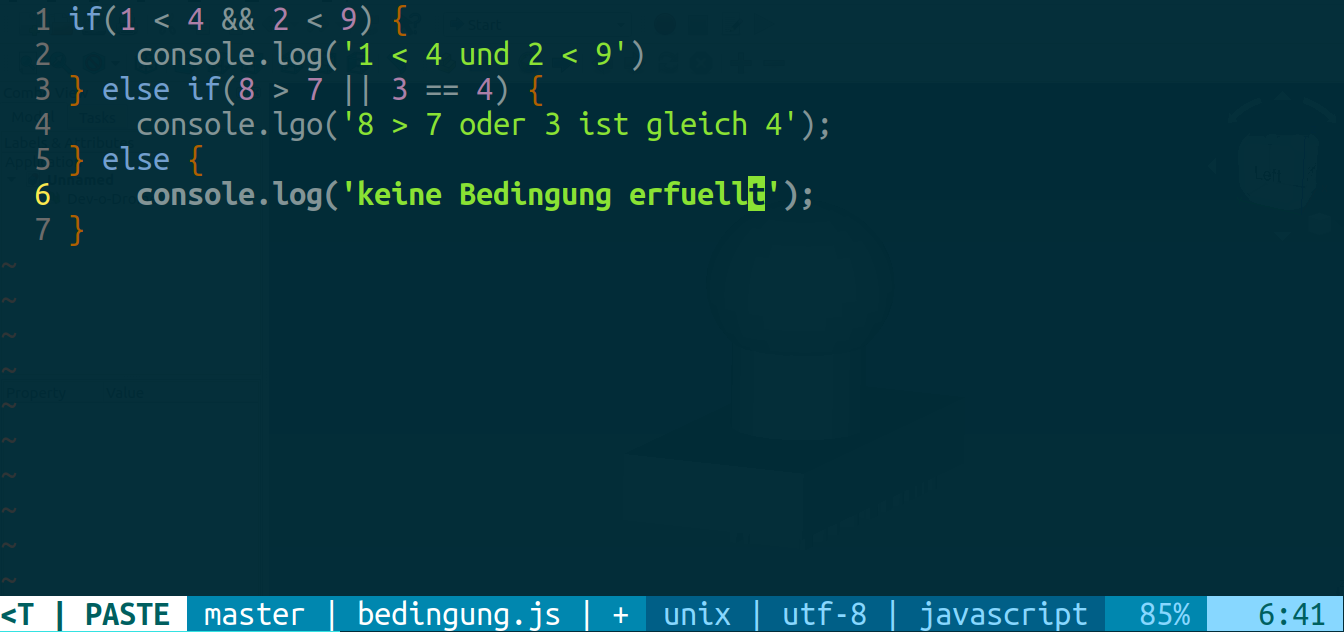
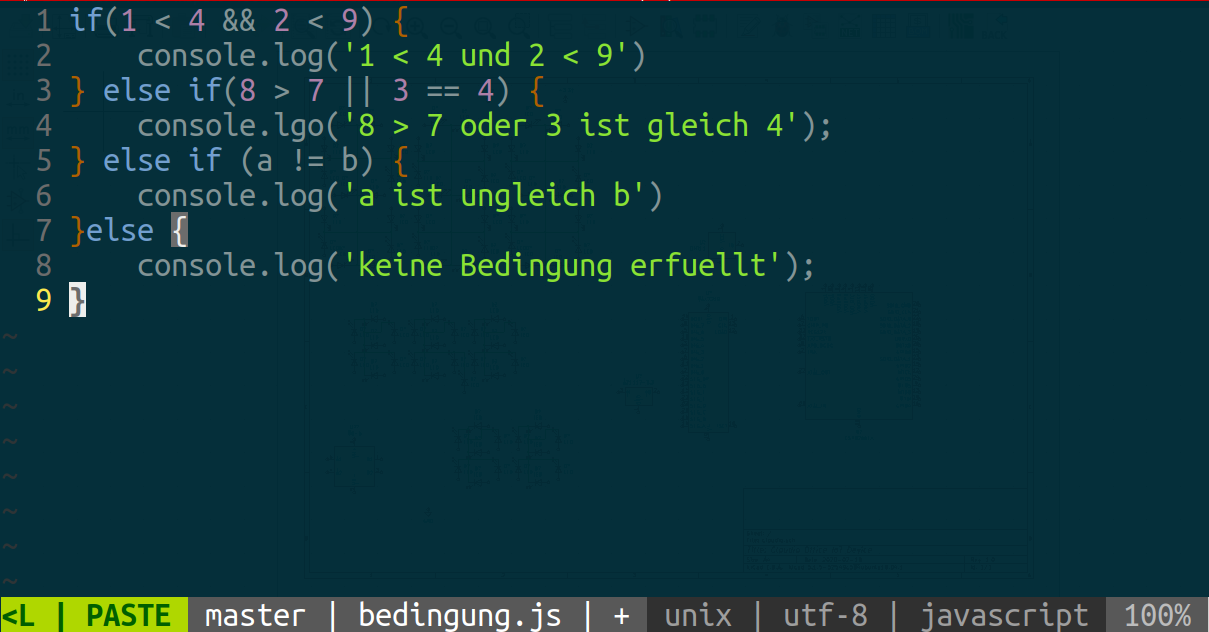
update if cases

Changed region(s): [[0.0306, 0.0, 0.6733, 0.5111], [0.0, 0.932, 1.0, 1.0]]

diff --git a/example/bedingung.js b/example/bedingung.js
@@ -2,6 +2,8 @@ if(1 < 4 && 2 < 9) {
     console.log('1 < 4 und 2 < 9')
 } else if(8 > 7 || 3 == 4) {
     console.lgo('8 > 7 oder 3 ist gleich 4');
-} else {
+} else if (a != b) {
+    console.log('a ist ungleich b')
+}else {
     console.log('keine Bedingung erfuellt');
 }
